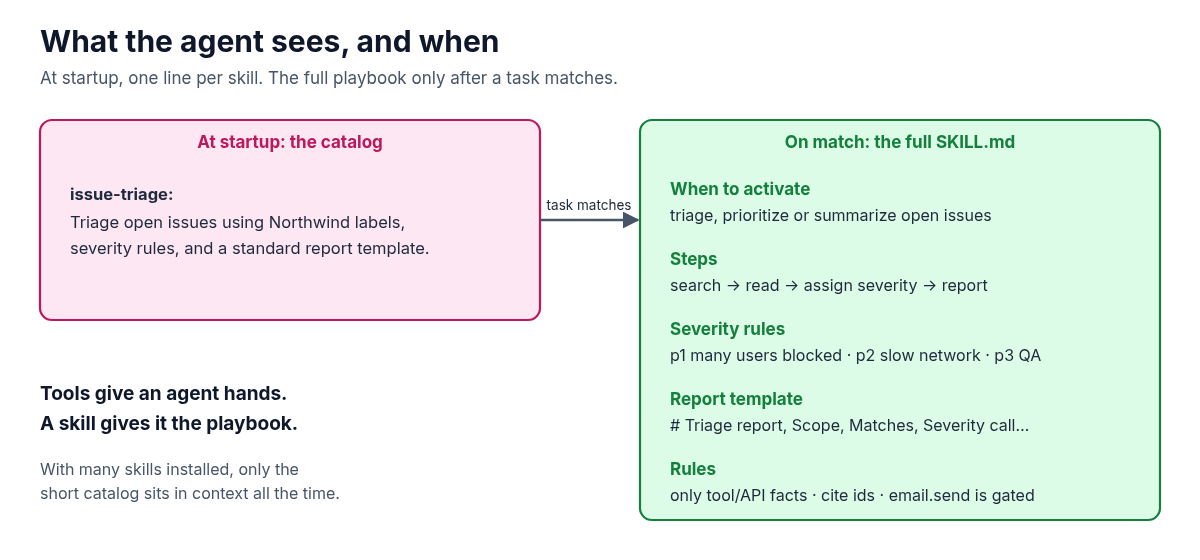
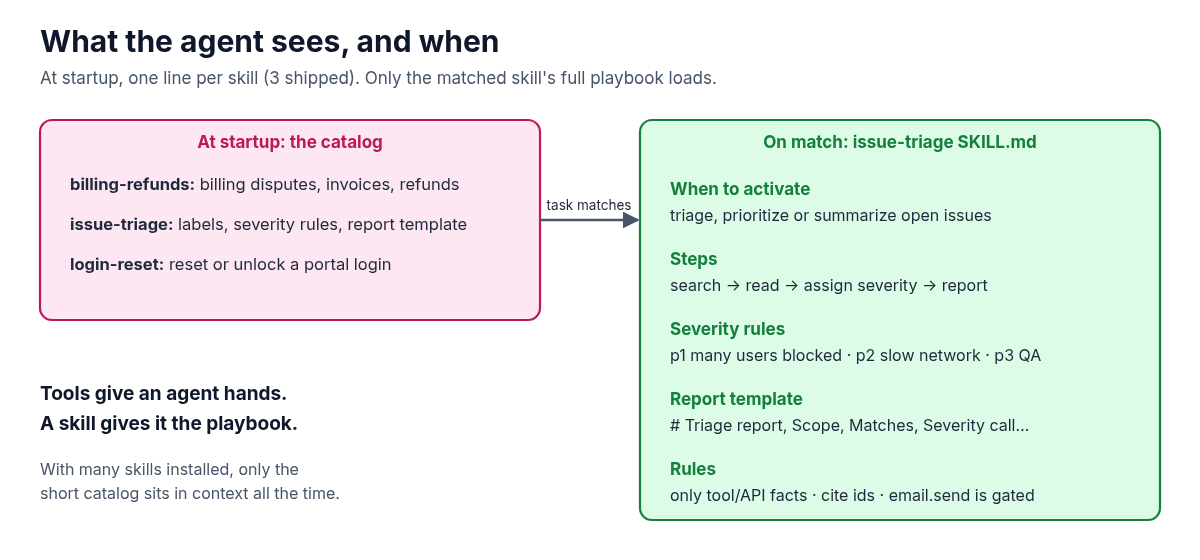
Replace redrawn AI Agent Stack diagrams and fix module 07 skill labels.
Sync verified PNGs from ai-agent-stack and correct login-reset vs issue-triage wording in the integration article after PR #50.

diff --git a/src/content/writing/ai-agent-stack-07-integration-setup.md b/src/content/writing/ai-agent-stack-07-integration-setup.md
@@ -28,7 +28,7 @@ Module 07 is one function, `answer_question()`, with two front ends: a small web
 | Step | What it does |
 |------|--------------|
 | `plugin.load` (Module 05) | Installs the `northwind-issue-tracker` plugin manifest |
-| `skill.select` (Module 06) | Reads the skill catalog and picks `issue-triage` |
+| `skill.select` (Module 06) | Reads the skill catalog and picks the matching skill (`login-reset` for the two login questions, `issue-triage` for the triage task) |
 | `rag.retrieve` (Module 03) | Pulls the top 3 chunks from the team's docs |
 | `mcp.search_issues_tool` (Module 04) | Searches open issues through the MCP server's tool |
 | `tools.search_issues` (Module 02) | Runs the same search as a plain function tool |
@@ -53,7 +53,7 @@ The chat app offers three demo questions as chips:
 2. **"How do we usually fix login timeouts?"** Leans on RAG and the runbook.
 3. **"Triage the open login issues."** Uses the skill's report format, and is the one to try with email.
 
-All three run the full set of seven steps. The data is the same Northwind sample data as every earlier module: the issue store, the three docs and the `issue-triage` skill.
+All three run the full set of seven steps. The data is the same Northwind sample data as every earlier module: the issue store, the three docs and the three skills from Module 06.
 
 ## 4. Set it up
 
@@ -94,7 +94,7 @@ Open `http://127.0.0.1:8080` and click **"Which open issues mention login?"**. T
 The answer:
 
 ```text
-Found 4 open issue(s) matching the query (skill=issue-triage; sources=auth-design-notes.md, auth-design-notes.md, login-timeout-runbook.md):
+Found 4 open issue(s) matching the query (skill=login-reset; sources=login-timeout-runbook.md, auth-design-notes.md, auth-design-notes.md):
 - #101 Login page hangs after SSO redirect [auth, bug, p1]
 - #102 Login timeout after 30s on slow networks [auth, bug, p2]
 - #105 Document login timeout troubleshooting [docs, auth]
@@ -103,7 +103,7 @@ Found 4 open issue(s) matching the query (skill=issue-triage; sources=auth-desig
 Closest detail: #101 — Login page hangs after SSO redirect
 
 —
-stack: plugin=northwind-issue-tracker · skill=issue-triage · rag_chunks=3 · mcp=4 · tools=4
+stack: plugin=northwind-issue-tracker · skill=login-reset · rag_chunks=3 · mcp=4 · tools=4
 ```
 
 The same four issues as every earlier module. The last line tells you which piece contributed what.
